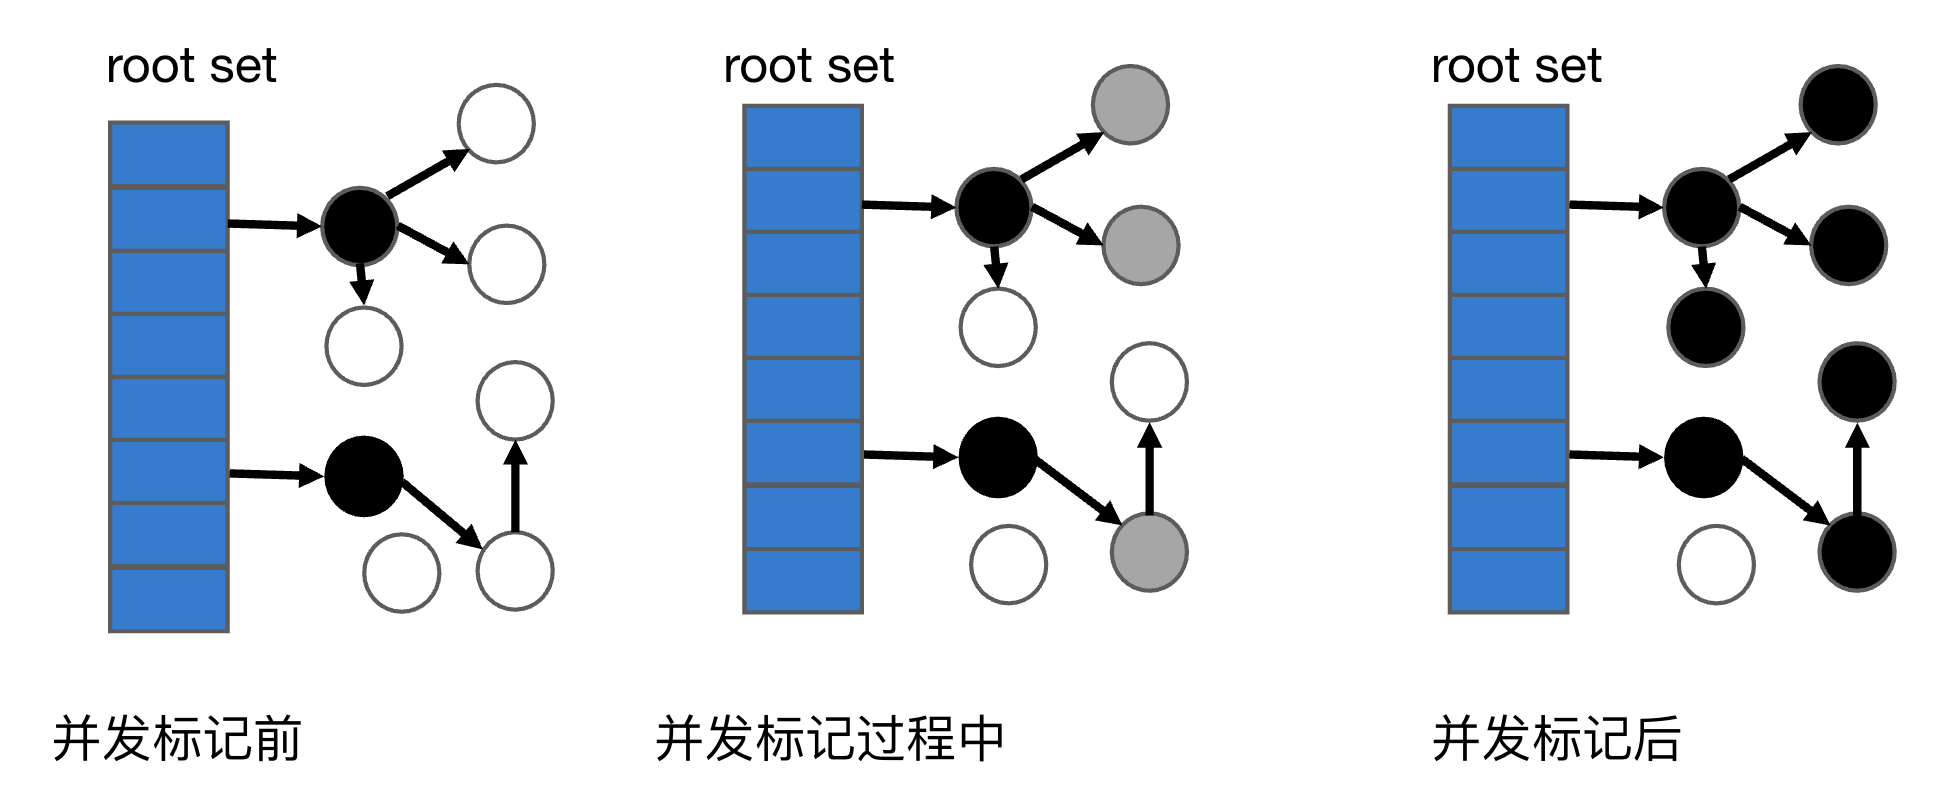
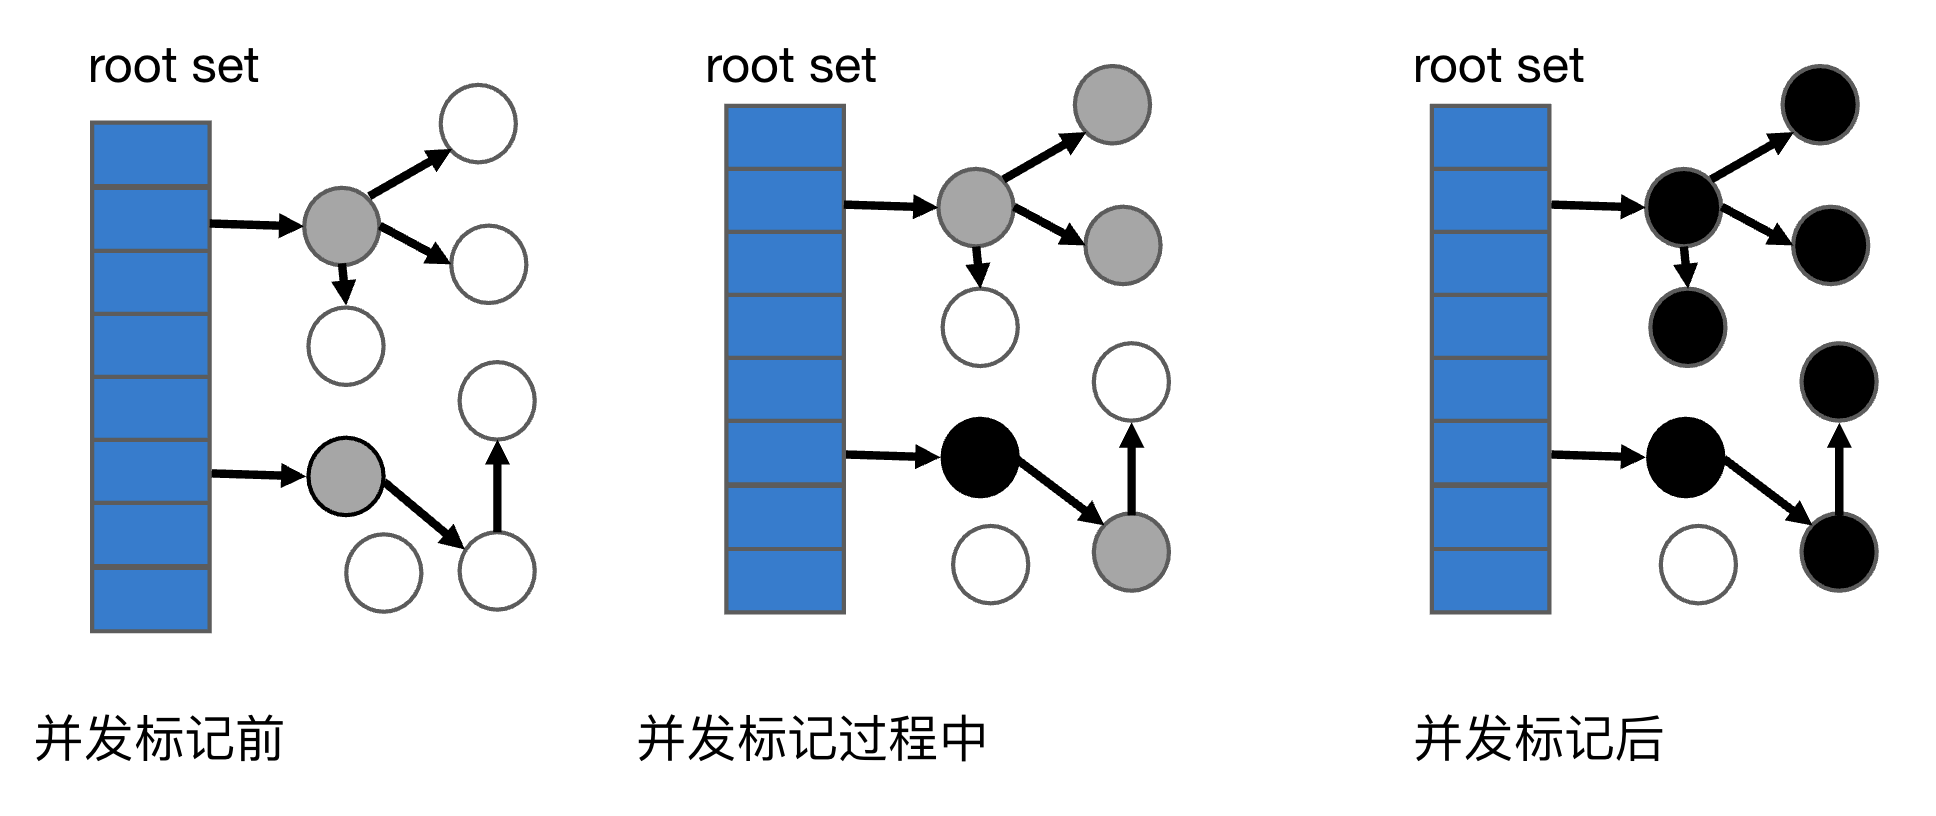
conc  mark

diff --git a/_posts/2024-09-20-g1-conc-mark-mark.md b/_posts/2024-09-20-g1-conc-mark-mark.md
@@ -47,32 +47,34 @@ class G1ConcurrentMark {
 
 ## 三色标记算法
 
-在标记阶段 G1 采用三色标记算法([Tri-color marking](https://en.wikipedia.org/wiki/Tracing_garbage_collection#Tri-color_marking))，从 GC root 开始遍历对象，如图开始时只有与 gc root 直接关联的对象是黑色的，随着并发标记的进行，所有与 GC root 直接关联或者间接关联的对象都会变成黑色。
+在标记阶段 G1 采用三色标记算法([Tri-color marking](https://en.wikipedia.org/wiki/Tracing_garbage_collection#Tri-color_marking))，从 GC root 开始遍历对象。
+
+如图，开始时只有与 gc root 直接关联的对象是灰色的，随着并发标记的进行，所有与 GC root 直接关联或者间接关联的对象都会变成黑色。
 
 <image src="/assets/conc-mark/conc-mark-tri-color.png" width="80%"/>
 
 注意这里说的对象染色并不是标记对象的某个属性为黑色或者灰色，以 G1 为例：
 
-- 并发标记前：在 Young GC 阶段，将与之 gc root 关联的对象标记在 mark_bitmap 中，同理在 root region scan 阶段也会标记与之直接关联的对象。当对象已经在 mark_bitmap 标记，称对象被标记为黑色。此时除此之外的对象全部为白色对象，就是还没有遍历到的对象。
+- 并发标记前：在 Young GC 阶段，将与之 gc root 关联的对象标记在 mark_bitmap 中，同理在 root region scan 阶段也会标记与之直接关联的对象。当对象已经在 mark_bitmap 标记，由于对象的引用还未被处理此时称对象被标记为灰色。此时除此之外的对象全部为白色对象，就是还没有遍历到的对象。
 
-- 并发标记中：G1 从 heap 开始的位置起开始遍历，当遍历到的对象已经被标记，就会将它的属性引用加入到 `_task_queue` 中，称在队列中的对象标记为灰色。当处理任务队列时，对象会被拿出来在 mark_bitmap 上标记，此时对象被标记黑色，并且遍历对象引用属性加入到队列中。
+- 并发标记中：G1 从 heap 开始的位置起开始遍历，当遍历到的对象已经被标记，则会遍历它的属性引用并加入到 `_task_queue` 中，称在队列中的对象标记为黑色。
+   当处理任务队列时，对象会被拿出来在 mark_bitmap 上标记，此时对象被标记灰色，此后遍历对象引用属性加入到队列中，此时对象为黑色。
 
-- 并发标记后活者的对象都已经在 `mark_bitmap` 标记，为黑色对象，死对象未被标记，为白色对象。
+- 并发标记后活者的对象都已经在 `mark_bitmap` 标记，并且对象的所有应用都已经被遍历，为黑色对象，死对象未被标记，为白色对象。
 
-由此可知，只有在标记过程中有灰色对象，标记之前和以后都只有黑色和白色对象，即标记之前和之后任务队列都为空。
+由此可知，遍历开始时只有灰色对象和白色对象，遍历结束后只有黑色和白色对象。
 
 
 ## 并发标记
 
-### todo
+并发标记在代码的名称叫做 `mark from roots`，主要逻辑框架封装在 G1CMTask::do_marking_step` 方法中。
 
 ```cpp
-//-> subphase_mark_from_roots
-//->G1ConcurrentMark::mark_from_roots
+G1ConcPhaseTimer p(_cm, "Concurrent Mark From Roots");
+
+//-> subphase_mark_from_roots ->G1ConcurrentMark::mark_from_roots
 class G1CMConcurrentMarkingTask : public WorkerTask {
   G1ConcurrentMark*     _cm;
-
-public:
   void work(uint worker_id) {
     {
       G1CMTask* task = _cm->task(worker_id);
@@ -83,3 +85,307 @@ public:
       } } }
 }
 ```
+
+核心模块是一个 `do-while` 循环。
+
+```cpp
+do{
+  //1. process region between botton and tams
+  //2. process task queue
+
+  while (!has_aborted() && _curr_region == nullptr && !_cm->out_of_regions()){
+    G1HeapRegion* claimed_region = _cm->claim_region(_worker_id);//get region to scan
+  }
+}while(_curr_region != nullptr && !has_aborted())
+```
+
+并发标记的代码逻辑很多，下面分功能模块介绍。
+
+### drain satb buffers
+
+#### SATB
+
+G1 使用 SATB 来保证 GC 线程与用户线程并发执行的正确性，而 SATB 是写前屏障（write-pre barrier）来实现。
+
+SATB 机制将在并发标记过程中 “消失的对象” 全部标记为黑色，然后以此为根，开始扫描。它能确保对象不会被误删除（最终标记为黑色），但也会导致真正应该消失的对象在本轮标记中存活，需要等待下一轮并发标记才能被回收。参考《深入理解 Java 虚拟机》
+
+```cpp
+inline void ModRefBarrierSet::AccessBarrier<decorators, BarrierSetT>::
+oop_store_in_heap(T* addr, oop value) {
+  BarrierSetT *bs = barrier_set_cast<BarrierSetT>(barrier_set());
+  bs->template write_ref_field_pre<decorators>(addr); //写前屏障
+  Raw::oop_store(addr, value);
+  bs->template write_ref_field_post<decorators>(addr);
+}
+```
+
+写前屏障会首先判断 SATB 是否开启，开启状态下会将对象指针加入到 `SATBMarkQueue` 队列中。
+
+```cpp
+//write_ref_field_pre->enqueue
+inline void G1BarrierSet::enqueue(T* dst) {
+  G1SATBMarkQueueSet& queue_set = G1BarrierSet::satb_mark_queue_set();
+  if (!queue_set.is_active()) return;
+
+  T heap_oop = RawAccess<MO_RELAXED>::oop_load(dst);
+  if (!CompressedOops::is_null(heap_oop)) {
+    SATBMarkQueue& queue = G1ThreadLocalData::satb_mark_queue(Thread::current());
+    queue_set.enqueue_known_active(queue, CompressedOops::decode_not_null(heap_oop));
+  }
+}
+```
+
+在并发标记开始的时候，会设置 `SATBMarkQueueSet` 的状态，并为每个线程设置 `queue` 的容量。
+
+```cpp
+//start_concurrent_cycle->set_active_all_threads
+void SATBMarkQueueSet::set_active_all_threads(bool active, bool expected_active) {
+  _all_active = active;
+
+  Threads::threads_do(&closure);
+}
+
+class SetThreadActiveClosure : public ThreadClosure {
+  SATBMarkQueueSet* _qset; bool _active;
+public:
+  SetThreadActiveClosure(SATBMarkQueueSet* qset, bool active) :
+    _qset(qset), _active(active) {}
+  virtual void do_thread(Thread* t) {
+    SATBMarkQueue& queue = _qset->satb_queue_for_thread(t);
+    if (_active) {
+      assert(queue.is_empty(), "queues should be empty when activated");
+    } else {
+      queue.set_index(queue.current_capacity());
+    }
+    queue.set_active(_active);
+  }
+}
+```
+
+#### drain satb
+
+`_task->make_reference_grey` 在 mark_map 中标记当前对象，标记成功则将对象加入到队列中，后续会遍历对象所有引用。
+
+标记失败的情况：
+
+1. 对象地址大于 tams ，即对象不在本次需要遍历的范围内，不在此范围的对象是并发过程中用户线程产生的新对象，这些对象都是活对象。
+2. 对象已经被标记，不需要再次标记，保证所有任务都能够完成。
+
+```cpp
+//->drain_satb_buffers -> SATBMarkQueueSet::apply_closure_to_completed_buffer
+class G1CMSATBBufferClosure : public SATBBufferClosure {
+    virtual void do_buffer(void** buffer, size_t size) {
+    for (size_t i = 0; i < size; ++i) {
+      do_entry(buffer[i]);
+    } }
+
+  void do_entry(void* entry) const {
+    _task->increment_refs_reached();
+    oop const obj = cast_to_oop(entry);
+    _task->make_reference_grey(obj);
+  }
+}
+//make_reference_grey -> push -> _task_queue->push(task_entry)
+inline bool G1CMTask::make_reference_grey(oop obj) {
+  if (!_cm->mark_in_bitmap(_worker_id, obj)) {
+    return false;
+  }
+  if (is_below_finger(obj, global_finger)) {
+    push(entry);
+  }
+}
+```
+
+如果队列已满，则移动部分本地队列任务到全局栈中，然后再将当前任务加入到本地队列中。
+
+```cpp
+inline void G1CMTask::push(G1TaskQueueEntry task_entry) {
+  if (!_task_queue->push(task_entry)) {
+    move_entries_to_global_stack();
+    bool success = _task_queue->push(task_entry);
+  }
+}
+```
+
+### mark humongous region
+
+对于数组对象和普通对象有不同的处理，本节只看普通对象。
+
+```cpp
+if(_curr_region->is_humongous() && mr.start() == _curr_region->bottom()) {
+      if (_mark_bitmap->is_marked(mr.start())) {
+        // The object is marked - apply the closure
+        bitmap_closure.do_addr(mr.start());
+      }
+}
+
+bool G1CMBitMapClosure::do_addr(HeapWord* const addr) {
+  // We move that task's local finger along.
+  _task->move_finger_to(addr);
+  _task->scan_task_entry(G1TaskQueueEntry::from_oop(cast_to_oop(addr)));
+  return !_task->has_aborted();
+}
+
+//scan_task_entry -> process_grey_task_entry
+_words_scanned += obj->oop_iterate_size(_cm_oop_closure);; //源码中就多了一个分号
+```
+
+`_cm_oop_closure` 在 `do_marking_step` 开始执行的时候被设置，`make_reference_grey` 处理方式上文已经提到过。
+
+
+```cpp
+G1CMOopClosure cm_oop_closure(_g1h, this);
+set_cm_oop_closure(&cm_oop_closure);
+
+inline void G1CMOopClosure::do_oop_work(T* p) {
+  _task->deal_with_reference(p);
+}
+// G1CMTask::deal_with_reference -> make_reference_grey
+```
+
+如果全局栈耗尽，则会重新启动流程，在 `do_marking_step` 方法中首先执行清空队列和栈的逻辑。
+
+```cpp
+for (uint iter = 1; true; ++iter) {
+  // Check if we need to restart the marking loop.
+  if (!mark_loop_needs_restart()) break;
+  log_info(gc, marking)("Concurrent Mark Restart for Mark Stack Overflow (iteration #%u)", iter);
+}
+
+// ...then partially drain the local queue and the global stack
+drain_local_queue(true);
+drain_global_stack(true);
+```
+
+> If it overflows, then the marking phase should restart and iterate over the bitmap to identify grey objects.
+
+
+### mark normal region
+
+对于普通 region，则遍历 region 区域，找到其中被标记的对象，然后逐个遍历对象的所有引用，其次标记这些引用，最后将这些引用加入到队列中。`make_reference_grey` 处理方式上文已经提到过。
+
+```cpp
+if (_mark_bitmap->iterate(&bitmap_closure, mr))
+
+inline bool G1CMBitMap::iterate(G1CMBitMapClosure* cl, MemRegion mr) {
+  BitMap::idx_t const end_offset = addr_to_offset(mr.end());
+  BitMap::idx_t offset = _bm.find_first_set_bit(addr_to_offset(mr.start()), end_offset);
+
+  while (offset < end_offset) {
+    HeapWord* const addr = offset_to_addr(offset);
+    if (!cl->do_addr(addr)) { return false; }
+    size_t const obj_size = cast_to_oop(addr)->size();
+    offset = _bm.find_first_set_bit(offset + (obj_size >> _shifter), end_offset);
+  }
+  return true;
+}
+```
+
+### drain local queue
+
+依次从本地队列中取出任务处理，后续流程前文已经介绍过，不在赘述。
+
+参数 `partially` 表示处理部分任务还是全部任务，留下部分是为了让其他工作线程来窃取。
+
+```cpp
+void G1CMTask::drain_local_queue(bool partially) {
+    uint target_size;
+    if (partially) { target_size = GCDrainStackTargetSize; } 
+    else { target_size = 0; } 
+
+    G1TaskQueueEntry entry;
+    bool ret = _task_queue->pop_local(entry);
+    while (ret) {
+      scan_task_entry(entry);
+      if (_task_queue->size() <= target_size || has_aborted()) {
+        ret = false;
+      } else {
+        ret = _task_queue->pop_local(entry);
+     } }
+}
+
+//scan_task_entry->process_grey_task_entry
+```
+
+### drain global stack
+
+`get_entries_from_global_stack` 方法批量从全局栈中获取任务，然后将任务加入到本地队列中，然后 `drain_local_queue` 清空本地队列的任务。
+
+```cpp
+void G1CMTask::drain_global_stack(bool partially) {
+  while (!has_aborted() && _cm->mark_stack_size() > target_size) {
+      if (get_entries_from_global_stack()) {
+        drain_local_queue(partially);
+      } }
+}
+
+bool G1CMTask::get_entries_from_global_stack() {
+  G1TaskQueueEntry buffer[G1CMMarkStack::EntriesPerChunk];
+  if (!_cm->mark_stack_pop(buffer)) { return false; }
+  // We did actually pop at least one entry.
+  for (size_t i = 0; i < G1CMMarkStack::EntriesPerChunk; ++i) {
+    G1TaskQueueEntry task_entry = buffer[i];
+    if (task_entry.is_null()) { break; }
+    bool success = _task_queue->push(task_entry);
+  }
+  return true;
+}
+```
+
+### claim region
+
+`_cm->claim_region` 为当前线程分配 region，然后 `setup_for_region` 初始化相关属性。
+
+```cpp
+while (!has_aborted() && _curr_region == nullptr && !_cm->out_of_regions()) {
+  G1HeapRegion* claimed_region = _cm->claim_region(_worker_id);
+  if (claimed_region != nullptr) {
+    setup_for_region(claimed_region);
+  }
+}
+```
+
+### 窃取任务
+
+窃取任务的逻辑和收集阶段类似，不在赘述。
+
+```cpp
+while (!has_aborted()) {
+  G1TaskQueueEntry entry;
+  if (_cm->try_stealing(_worker_id, entry)) {
+    scan_task_entry(entry);
+    drain_local_queue(false);
+    drain_global_stack(false);
+  } else {
+    break;
+  }
+}
+```
+
+## 总结
+
+本文从三色标记算法开始，讲解了 G1 遍历所有 region（bottom 到 tams） ，并且在 mark map 中标记对象的全过程。这块代码看似很多，不过主要逻辑还是很清楚，希望本文对读者有用。
+
+
+
+
+
+
+
+
+
+
+
+
+
+
+
+
+
+
+
+
+
+
+
+
